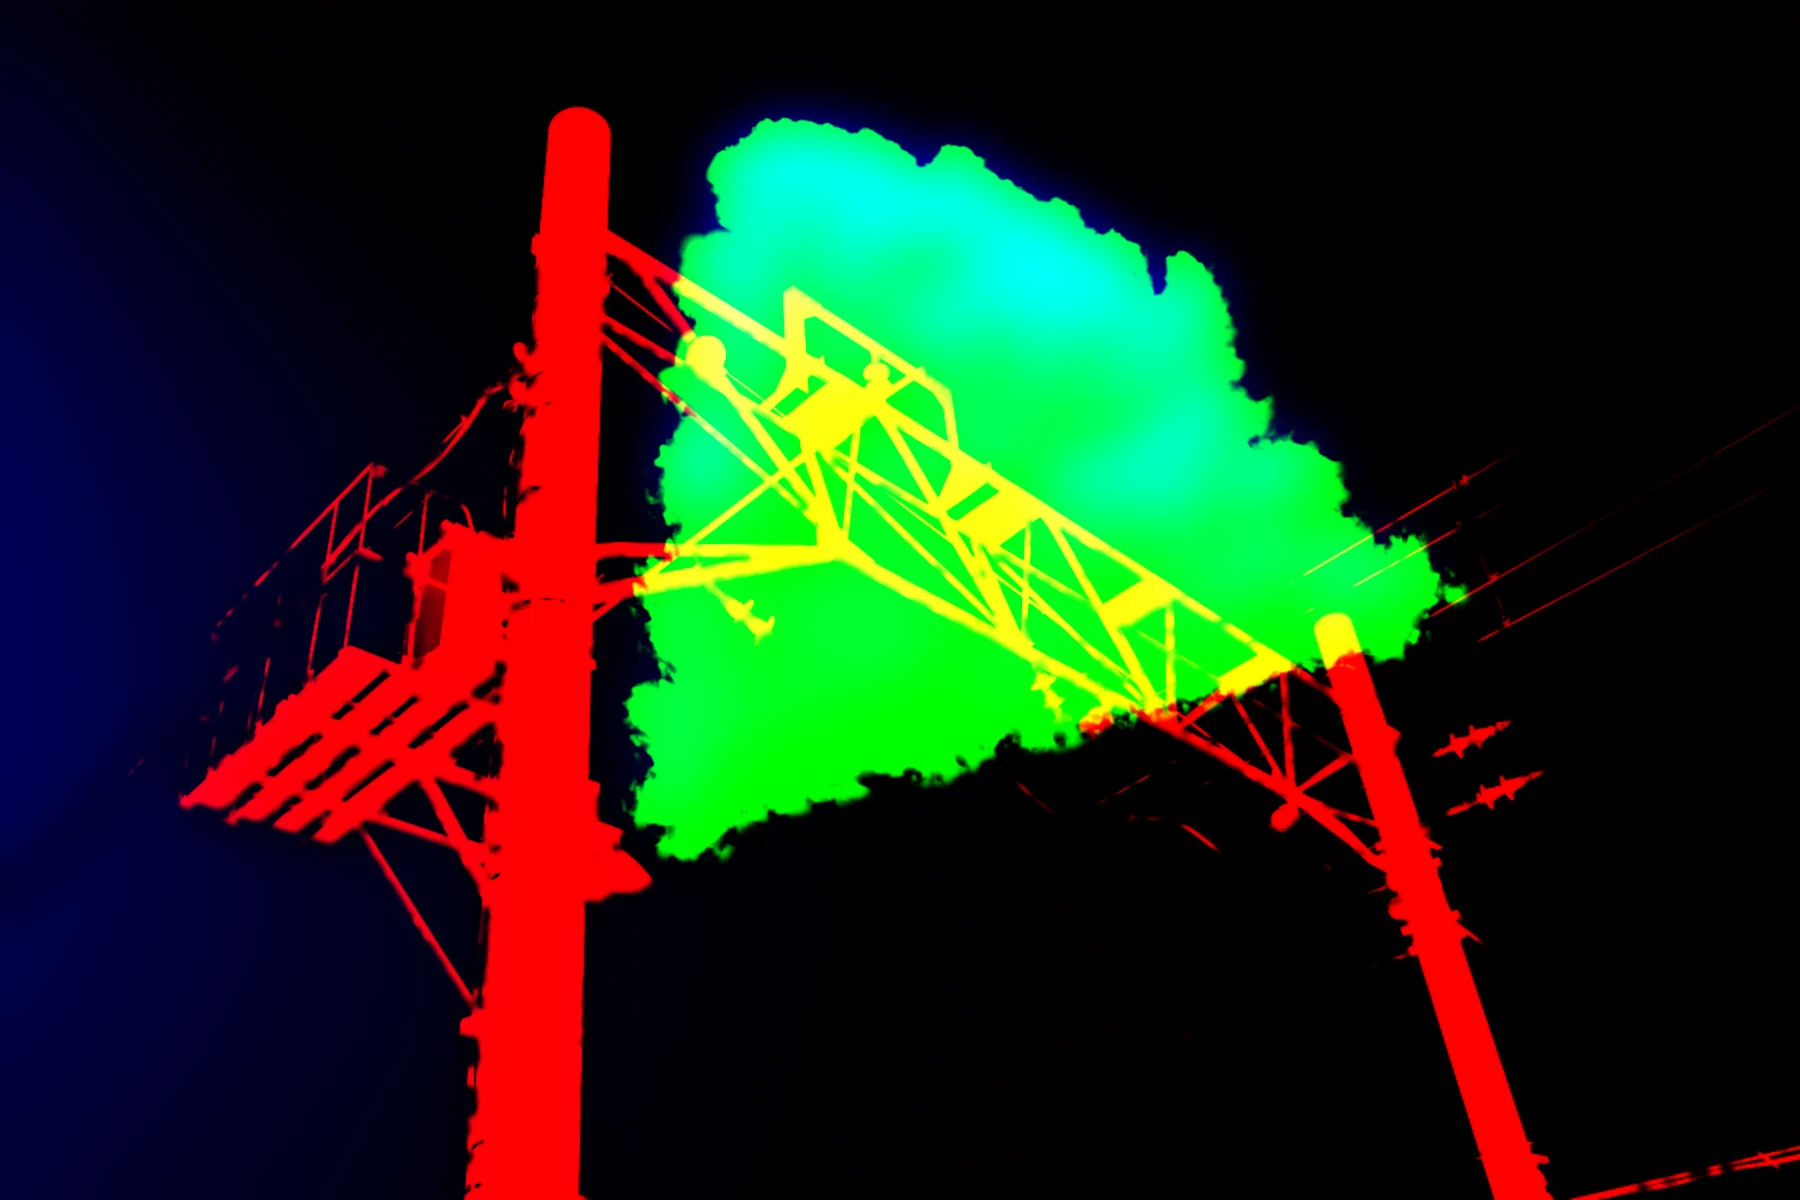
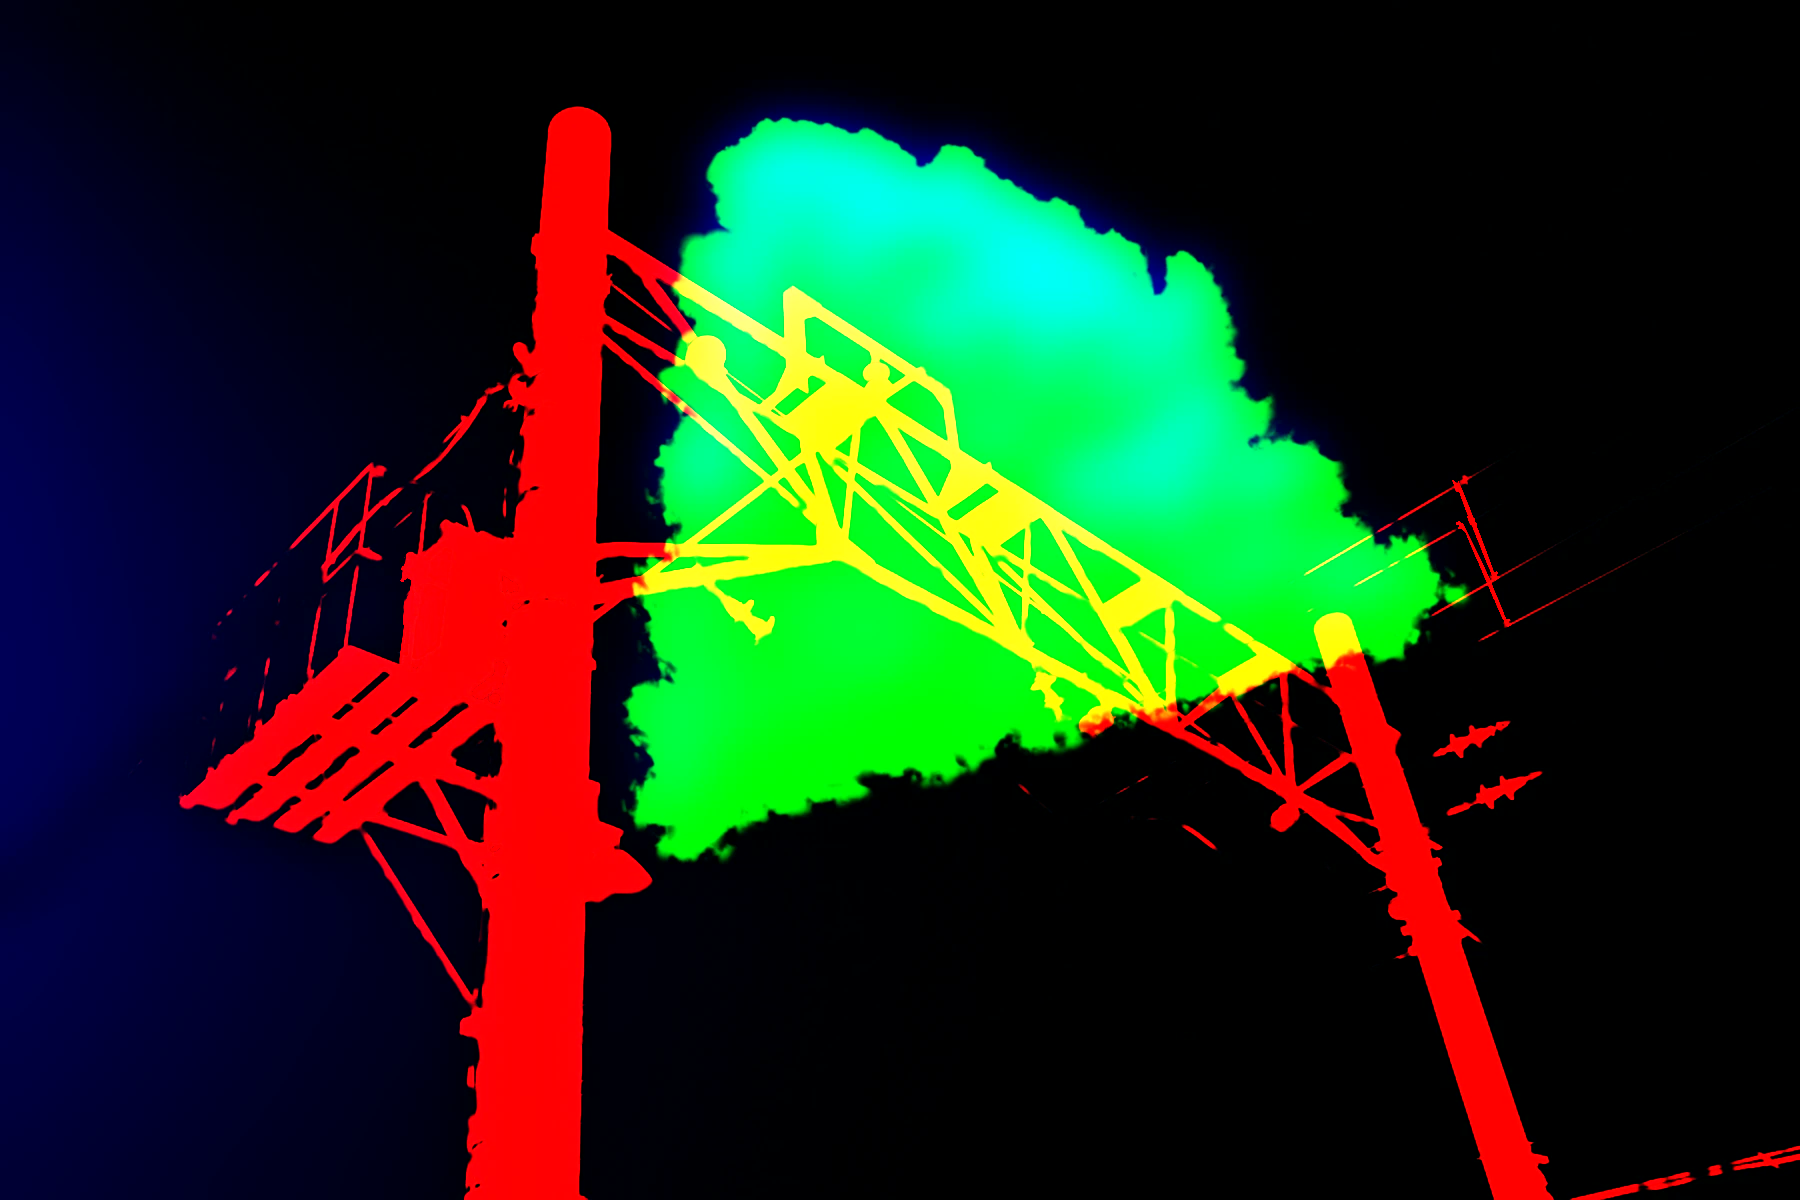
Lab: climb catenary round 3
Claude-Session: https://claude.ai/code/session_01RqENhngNCzDFmJWDZueXGV

diff --git a/tools/depth/bakes/catenary/mend.py b/tools/depth/bakes/catenary/mend.py
@@ -1,0 +1,204 @@
+# Catenary, stage 4b: the structure held through the sky. Runs after sky.py
+# and before zenith.py, on copies of what sky.py published.
+#
+#   python3 -I mend.py <work_dir> <public_dir>
+#
+#   <work_dir>/plate-sky.webp   the plate as sky.py wrote it (copied once)
+#   <work_dir>/key-sky.webp     its key (copied once)
+#
+# key.py let the transformer's sunlit face, its placard and the spacer rods go
+# with the sky (hold.py says why), so sky.py fitted its sky through them,
+# laid the new sky over them by difference, and the engine graded what was
+# left as open cobalt: a matte hole in solid steel. key.py now holds them; this
+# carries the same hold into the plate and key sky.py already published, so
+# the sky's bake does not have to be run again.
+#  1. The key's structure (R) takes BOX's near field (snapped to the
+#     photograph's own edges) and the spacer rods keyed from their colour,
+#     and the holes in it darker than any sky are filled.
+#  2. Where it now holds what it did not, the plate takes the photograph back,
+#     by difference, as sky.py laid its sky: each pixel is the photograph's,
+#     plus (1 - structure) times the change of background under it, so the
+#     box's edge that was mixed with the photograph's cloud is now mixed
+#     with this sky.
+#  3. The structure's edge is drawn in to the steel (EDGE): the near field's
+#     guided snap left its foot a plate px or two out over the sky, where the
+#     grade then neither held the steel nor graded the sky, a pale line.
+#  4. De-ring. The photograph's in-camera sharpening left a pale line one or
+#     two plate px wide on the sky side of every steel edge and every wire
+#     (15 to 30 levels over the sky beside it). Within RING plate px of the
+#     steel and the plate's own dark lines, out in the sky and the cloud's
+#     dim, skylit lower body (not its lit body, where the cloud holds the
+#     ceiling up), no channel may rise past the sky filled in from beyond
+#     the ring.
+import os
+import shutil
+import sys
+
+import cv2
+import numpy as np
+
+sys.path.insert(0, os.path.dirname(os.path.abspath(__file__)))
+from hold import box_gate, fill_dark_holes, spacer_key
+
+WORK, PUB = sys.argv[1], sys.argv[2]
+for name in ("plate", "key"):
+    if not os.path.exists(f"{WORK}/{name}-sky.webp"):
+        shutil.copy(f"{PUB}/{name}.webp", f"{WORK}/{name}-sky.webp")
+# The photograph and its depth map, as plate.py and key.py read them; the
+# library's copies (4000 wide) when the full-size working copies are gone.
+SRC = [
+    "/tmp/claude-0/imgs2/picks/ine-catenary-clouds.jpg",
+    "/tmp/claude-0/library/photos/ine-catenary-clouds.jpg",
+]
+DEPTH = [
+    "/tmp/claude-0/imgs2/picks/ine-catenary-clouds-depth.png",
+    "/tmp/claude-0/library/depth/ine-catenary-clouds.png",
+]
+EDGE = (0.12, 0.62)  # R remapped over this: the foot drawn in, the shoulder up
+RING = 4  # plate px
+RING_EPS = 1.5 / 255
+LUMA = np.array([0.2126, 0.7152, 0.0722], np.float32)
+
+
+def first(paths):
+    for p in paths:
+        if os.path.exists(p):
+            return p
+    raise SystemExit("mend.py: none of " + ", ".join(paths))
+
+
+def srgb_to_lin(c):
+    return np.where(c <= 0.04045, c / 12.92, ((c + 0.055) / 1.055) ** 2.4).astype(np.float32)
+
+
+def lin_to_srgb(c):
+    c = np.clip(c, 0, 1)
+    return np.where(c <= 0.0031308, c * 12.92, 1.055 * np.power(c, 1 / 2.4) - 0.055).astype(np.float32)
+
+
+def smooth(a, b, x):
+    t = np.clip((x - a) / (b - a), 0, 1)
+    return t * t * (3 - 2 * t)
+
+
+def load(p):
+    return cv2.imread(p, cv2.IMREAD_COLOR)[:, :, ::-1].astype(np.float32) / 255
+
+
+def box(x, r):
+    return cv2.boxFilter(x, -1, (2 * r + 1, 2 * r + 1), borderType=cv2.BORDER_REFLECT)
+
+
+def guided(I, p, r, eps):
+    mI, mp = box(I, r), box(p, r)
+    a = (box(I * p, r) - mI * mp) / (box(I * I, r) - mI * mI + eps)
+    b = mp - a * mI
+    return box(a, r) * I + box(b, r)
+
+
+def fill(img, w, levels=9):
+    # Push-pull, as sky.py.
+    num, den = img * w[..., None], w.copy()
+    pyr = [(num, den)]
+    for _ in range(levels):
+        num, den = cv2.pyrDown(num), cv2.pyrDown(den)
+        pyr.append((num, den))
+    est = pyr[-1][0] / np.maximum(pyr[-1][1], 1e-6)[..., None]
+    for num, den in reversed(pyr[:-1]):
+        est = cv2.resize(est, (num.shape[1], num.shape[0]), interpolation=cv2.INTER_LINEAR)
+        k = np.clip(den * 4, 0, 1)[..., None]
+        est = num / np.maximum(den, 1e-6)[..., None] * k + est * (1 - k)
+    return est
+
+
+plate = load(f"{WORK}/plate-sky.webp")
+H, W = plate.shape[:2]
+key = load(f"{WORK}/key-sky.webp")
+KH, KW = key.shape[:2]
+orig = cv2.resize(load(first(SRC)), (W, H), interpolation=cv2.INTER_AREA)
+depth = cv2.imread(first(DEPTH), cv2.IMREAD_UNCHANGED).astype(np.float32) / 65535.0
+
+# ---------------------------------------------------------------- 1. the key
+ok = cv2.resize(orig, (KW, KH), interpolation=cv2.INTER_AREA)
+yk = lin_to_srgb(srgb_to_lin(ok) @ LUMA)
+near = smooth(0.2, 0.42, cv2.resize(depth, (KW, KH), interpolation=cv2.INTER_AREA))
+s = smooth(0.15, 0.85, np.clip(guided(yk, near, 4, 2e-3), 0, 1))
+r_old = key[..., 0]
+r_box = s * box_gate(KW, KH)
+r_sp = spacer_key(ok, KW, KH)
+r_hold = np.maximum(r_box, r_sp)
+r = fill_dark_holes(np.maximum(r_old, r_hold), yk)
+
+# ---------------------------------------------------------------- 2. the plate
+
+
+def up(x):
+    return cv2.resize(x, (W, H), interpolation=cv2.INTER_LINEAR)
+
+
+a = np.maximum(up(r_box), spacer_key(orig, W, H))
+a = np.maximum(a, up(r - np.maximum(r_old, r_hold)))  # the filled holes
+gain = np.clip(a - up(r_old), 0, 1)  # what the plate did not hold
+# Taken back where the hold is well on (its edge pixels are mixed, and the
+# mix is redone below); off it the plate's sky stays.
+take = smooth(0.0, 0.08, cv2.dilate(gain, np.ones((5, 5), np.uint8))) * smooth(0.05, 0.35, a)
+lin, olin = srgb_to_lin(plate), srgb_to_lin(orig)
+yo = lin_to_srgb(olin @ LUMA)
+clear = (cv2.dilate(np.maximum(a, up(r_old)), np.ones((7, 7), np.uint8)) < 0.03) & (yo > 0.35)
+clear = clear.astype(np.float32)
+bg_new, bg_old = fill(lin, clear), fill(olin, clear)
+# A pixel far darker than the photograph's background there is steel,
+# whatever the hold says: no background change reaches it (a dark rod with
+# the change of a white cloud to blue sky taken off it went to pure blue).
+yb = np.maximum(bg_old @ LUMA, 1e-4)
+bgw = (1 - a) * smooth(0.15, 0.6, (olin @ LUMA) / yb)
+comp = olin + bgw[..., None] * (bg_new - bg_old)
+lin = lin + take[..., None] * (np.clip(comp, 0, 1) - lin)
+
+# ---------------------------------------------------------------- 3. the edge
+r = smooth(EDGE[0], EDGE[1], r)
+
+# ---------------------------------------------------------------- 4. de-ring
+g = lin_to_srgb(lin)
+yg = g @ LUMA
+disk = cv2.getStructuringElement(cv2.MORPH_ELLIPSE, (11, 11))
+# The plate's own dark lines (the wires left in it, the box's cable): well
+# under both their closing and the sky beside them, and long, not grain.
+lines = smooth(0.04, 0.1, cv2.morphologyEx(yg, cv2.MORPH_CLOSE, disk) - yg)
+lines *= smooth(0.04, 0.1, cv2.GaussianBlur(yg, (0, 0), 6) - yg)
+n, lab, st, _ = cv2.connectedComponentsWithStats((lines > 0.3).astype(np.uint8), connectivity=8)
+long_ = np.hypot(st[:, cv2.CC_STAT_WIDTH], st[:, cv2.CC_STAT_HEIGHT]) > 24
+long_[0] = False
+lines *= long_[lab]
+fg = np.maximum(up(r), lines)
+hard = (fg > 0.3).astype(np.uint8)
+ringk = cv2.getStructuringElement(cv2.MORPH_ELLIPSE, (2 * RING + 1, 2 * RING + 1))
+near_fg = cv2.dilate(hard, ringk).astype(np.float32)
+# The sky read just past the ring itself (it is two plate px wide): a wider
+# reach averaged in the brighter cloud above the far pole.
+beyond = 1 - cv2.dilate(hard, cv2.getStructuringElement(cv2.MORPH_ELLIPSE, (9, 9))).astype(np.float32)
+sky = fill(g, beyond)
+cloud = up(key[..., 1])
+# The cloud's lit body holds the ceiling up (the halation owns that edge);
+# its skylit lower body, behind the far pole, is as dim as sky and is
+# de-rung like it.
+lit = smooth(0.15, 0.4, cloud) * smooth(0.74, 0.86, sky @ LUMA)
+wring = near_fg * (1 - smooth(0.3, 0.6, fg)) * (1 - lit)
+wring = cv2.GaussianBlur(wring, (0, 0), 0.7)
+g = g + wring[..., None] * (np.minimum(g, sky + RING_EPS) - g)
+
+# ---------------------------------------------------------------- write
+rng = np.random.default_rng(29)
+tpdf = rng.random((H, W, 1), np.float32) - rng.random((H, W, 1), np.float32)
+changed = (np.abs(g - lin_to_srgb(srgb_to_lin(plate))).max(-1, keepdims=True) > 0.25 / 255).astype(np.float32)
+s8 = np.clip(np.floor(g * 255 + 0.5 + tpdf * changed), 0, 255).astype(np.uint8)
+cv2.imwrite(PUB + "/plate.webp", s8[:, :, ::-1], [cv2.IMWRITE_WEBP_QUALITY, 92])
+# Lossless now: lossy WebP is 4:2:0, and the structure's edge went back to
+# two key px soft in the chroma, its foot out over the sky again.
+k8 = np.clip(np.stack([r, key[..., 1], key[..., 2]], -1) * 255 + 0.5, 0, 255).astype(np.uint8)
+cv2.imwrite(PUB + "/key.webp", k8[:, :, ::-1], [cv2.IMWRITE_WEBP_QUALITY, 101])
+if os.environ.get("DEBUG"):
+    cv2.imwrite(WORK + "/mend-take.png", (take * 255).astype(np.uint8))
+    cv2.imwrite(WORK + "/mend-ring.png", (wring * 255).astype(np.uint8))
+held = int((r_hold > 0.5).sum() - ((r_old > 0.5) & (r_hold > 0.5)).sum())
+print(f"mend: held {held} key px, plate px taken back {int((take > 0.5).sum())}, ring px {int((wring > 0.5).sum())}")

diff --git a/tools/depth/bakes/catenary/hold.py b/tools/depth/bakes/catenary/hold.py
@@ -1,0 +1,107 @@
+# Catenary: the structure the key has to hold, shared by key.py (which bakes
+# it into the key) and mend.py (which carries it into the published plate).
+#
+# The key's structure (R) is the depth map's near field with what is brighter
+# than steel let go (the sky and cloud the depth halo holds between truss
+# members). Two pieces of the gantry are as bright as that and were let go
+# with it, so the sky's fit and the sky's grade reached into solid metal:
+#  - The transformer on the platform: its sunlit left face (about 145,153,172
+#    as shot, a pale blue-grey), the white placard on it and the flange
+#    under the placard. Inside BOX the near field is kept whatever its
+#    brightness; BOX's left side is drawn on the box's own silhouette (the
+#    depth halo runs on past it into the white cloud there), its other sides
+#    run well inside what the key already holds.
+#  - The in-line spacer bars on the right-hand wires: pale grey rods, thin
+#    and out in the open sky, never in the depth map's near field at all.
+#    They are keyed from their colour along SPACERS: where a pixel is less
+#    blue than the sky round it (the rods are near neutral, the sky about
+#    86 levels bluer in blue than red), or darker than it (their clamps).
+# Holes the near field leaves inside the steel that are darker than any sky
+# are filled (DARK_HOLE); a sky gap between members is never filled.
+import cv2
+import numpy as np
+
+PLATE_W, PLATE_H = 3600, 2400
+# The transformer, plate px. Clockwise from the top of its left bracket.
+BOX = [
+    (816, 1100), (960, 1100), (960, 1332), (799.5, 1332),
+    (799.5, 1316), (800.5, 1306), (802.5, 1296), (803.5, 1286), (805.5, 1274),
+    (807, 1262), (808.5, 1250), (806.5, 1246), (806.5, 1238), (808, 1222),
+    (807.5, 1210), (809, 1196), (812.5, 1186), (819.5, 1180), (820.5, 1166),
+    (802, 1164), (800.5, 1160), (800.5, 1140), (806, 1130), (806.5, 1116),
+    (811, 1108),
+]
+# Spacer rods: (x0, y0, x1, y1) plate px, top clamp to bottom clamp.
+SPACERS = [(2906, 954, 2992, 1155), (2915, 1040, 3016, 1246)]
+SPACER_HALF = 8.0  # half-width of the search band, plate px
+DARK_HOLE = 0.45   # a hole under this luma (gamma) is steel, not sky
+
+
+def smooth(a, b, x):
+    t = np.clip((x - a) / (b - a), 0, 1)
+    return t * t * (3 - 2 * t)
+
+
+def box_gate(w, h):
+    """BOX as a soft (1 px) mask at w x h."""
+    s = w / PLATE_W
+    m = np.zeros((h, w), np.uint8)
+    pts = np.round(np.array(BOX, np.float32) * s * 8).astype(np.int32)
+    cv2.fillPoly(m, [pts], 255, lineType=cv2.LINE_AA, shift=3)
+    return m.astype(np.float32) / 255
+
+
+def spacer_band(w, h):
+    """Distance-weighted band along each spacer rod at w x h (1 on the rod's
+    line, 0 past SPACER_HALF)."""
+    s = w / PLATE_W
+    gy, gx = np.mgrid[0:h, 0:w].astype(np.float32)
+    band = np.zeros((h, w), np.float32)
+    for x0, y0, x1, y1 in SPACERS:
+        ax, ay, bx, by = x0 * s, y0 * s, x1 * s, y1 * s
+        dx, dy = bx - ax, by - ay
+        L2 = dx * dx + dy * dy
+        t = np.clip(((gx - ax) * dx + (gy - ay) * dy) / L2, 0, 1)
+        d = np.hypot(gx - (ax + t * dx), gy - (ay + t * dy))
+        band = np.maximum(band, 1 - smooth(0.6 * SPACER_HALF * s, SPACER_HALF * s, d))
+    return band
+
+
+def spacer_key(rgb, w, h):
+    """The spacer rods and their clamps, keyed from rgb (gamma, 0..1, the
+    photograph's sky round them, h x w x 3) against the local sky."""
+    band = spacer_band(w, h)
+    sky = (band < 1e-3).astype(np.float32)
+    # Local sky: the band's surroundings, pulled in.
+    k = max(3, round(24 * w / PLATE_W) | 1)
+    num = cv2.GaussianBlur(rgb * sky[..., None], (0, 0), k)
+    den = cv2.GaussianBlur(sky, (0, 0), k)[..., None]
+    loc = num / np.maximum(den, 1e-4)
+    c, cs = rgb[..., 2] - rgb[..., 0], loc[..., 2] - loc[..., 0]
+    y = rgb @ np.array([0.2126, 0.7152, 0.0722], np.float32)
+    ys = loc @ np.array([0.2126, 0.7152, 0.0722], np.float32)
+    pale = np.clip((cs - c) / np.maximum(cs - 0.04, 0.05), 0, 1)
+    dark = np.clip((ys - y) / np.maximum(ys - 0.12, 0.05), 0, 1)
+    a = smooth(0.25, 0.75, np.maximum(pale, dark))
+    return a * band
+
+
+def fill_dark_holes(r, yg):
+    """Fill the holes of r (> 0.5) whose median luma (yg, gamma) is darker
+    than any sky: they are steel the near field dropped."""
+    hard = (r > 0.5).astype(np.uint8)
+    inv = 1 - hard
+    n, lab, st, _ = cv2.connectedComponentsWithStats(inv, connectivity=4)
+    h, w = r.shape
+    out = r.copy()
+    for i in range(1, n):
+        x, y, bw, bh, area = st[i]
+        if x == 0 or y == 0 or x + bw >= w or y + bh >= h:
+            continue  # touches the frame: open sky
+        if area > 0.0004 * w * h:
+            continue
+        m = lab[y:y + bh, x:x + bw] == i
+        if area <= 3 or float(np.median(yg[y:y + bh, x:x + bw][m])) < DARK_HOLE:
+            sub = out[y:y + bh, x:x + bw]
+            sub[m] = 1.0
+    return out

diff --git a/tools/depth/bakes/catenary/key.py b/tools/depth/bakes/catenary/key.py
@@ -11,10 +11,20 @@
 #   G  cloud light, blurred thin (sigma ~0.35% of the width): the halation
 #      source, a warm rim where cloud meets sky and where steel crosses it.
 #   B  the same light, blurred wide (~1.4%): the diffusion that veils it.
+# The structure holds what is as bright as sky but is steel (hold.py): the
+# transformer's sunlit face and placard (BOX), the spacer rods on the
+# right-hand wires, and the holes inside the steel darker than any sky.
+# Without them sky.py fitted and laid its sky through the box and the
+# engine graded it as open cobalt. mend.py, after sky.py, draws the
+# structure's edge in and de-rings the plate round it.
+import os
 import sys
 
 import cv2
 import numpy as np
+
+sys.path.insert(0, os.path.dirname(os.path.abspath(__file__)))
+from hold import box_gate, fill_dark_holes, spacer_key
 
 PUB = sys.argv[1]
 SRC = "/tmp/claude-0/imgs2/picks/ine-catenary-clouds.jpg"
@@ -62,9 +72,16 @@ near = smooth(0.2, 0.42, depth) * (1 - np.clip(band * 1.5, 0, 1))
 # The steel is darker than whatever is behind it; snap the mask to its edges.
 s = guided(yg, near, 4, 2e-3)
 s = smooth(0.15, 0.85, np.clip(s, 0, 1))
+s_near = s
 # The steel is never as bright as the sky or cloud seen through it: what the
 # halo still holds between truss members and platform slats is let go.
-s *= 1 - smooth(0.5, 0.68, cv2.GaussianBlur(yg, (0, 0), 0.7))
+s = s * (1 - smooth(0.5, 0.68, cv2.GaussianBlur(yg, (0, 0), 0.7)))
+# Except where it is: the transformer's lit face and placard, kept whatever
+# their brightness inside BOX; the spacer rods, keyed from their colour; the
+# dark holes the near field left in the steel.
+s = np.maximum(s, s_near * box_gate(KW, KH))
+s = np.maximum(s, spacer_key(plate, KW, KH))
+s = fill_dark_holes(s, yg)
 
 mx, mn = plate.max(2), plate.min(2)
 chroma = (mx - mn) / np.maximum(mx, 1e-4)
